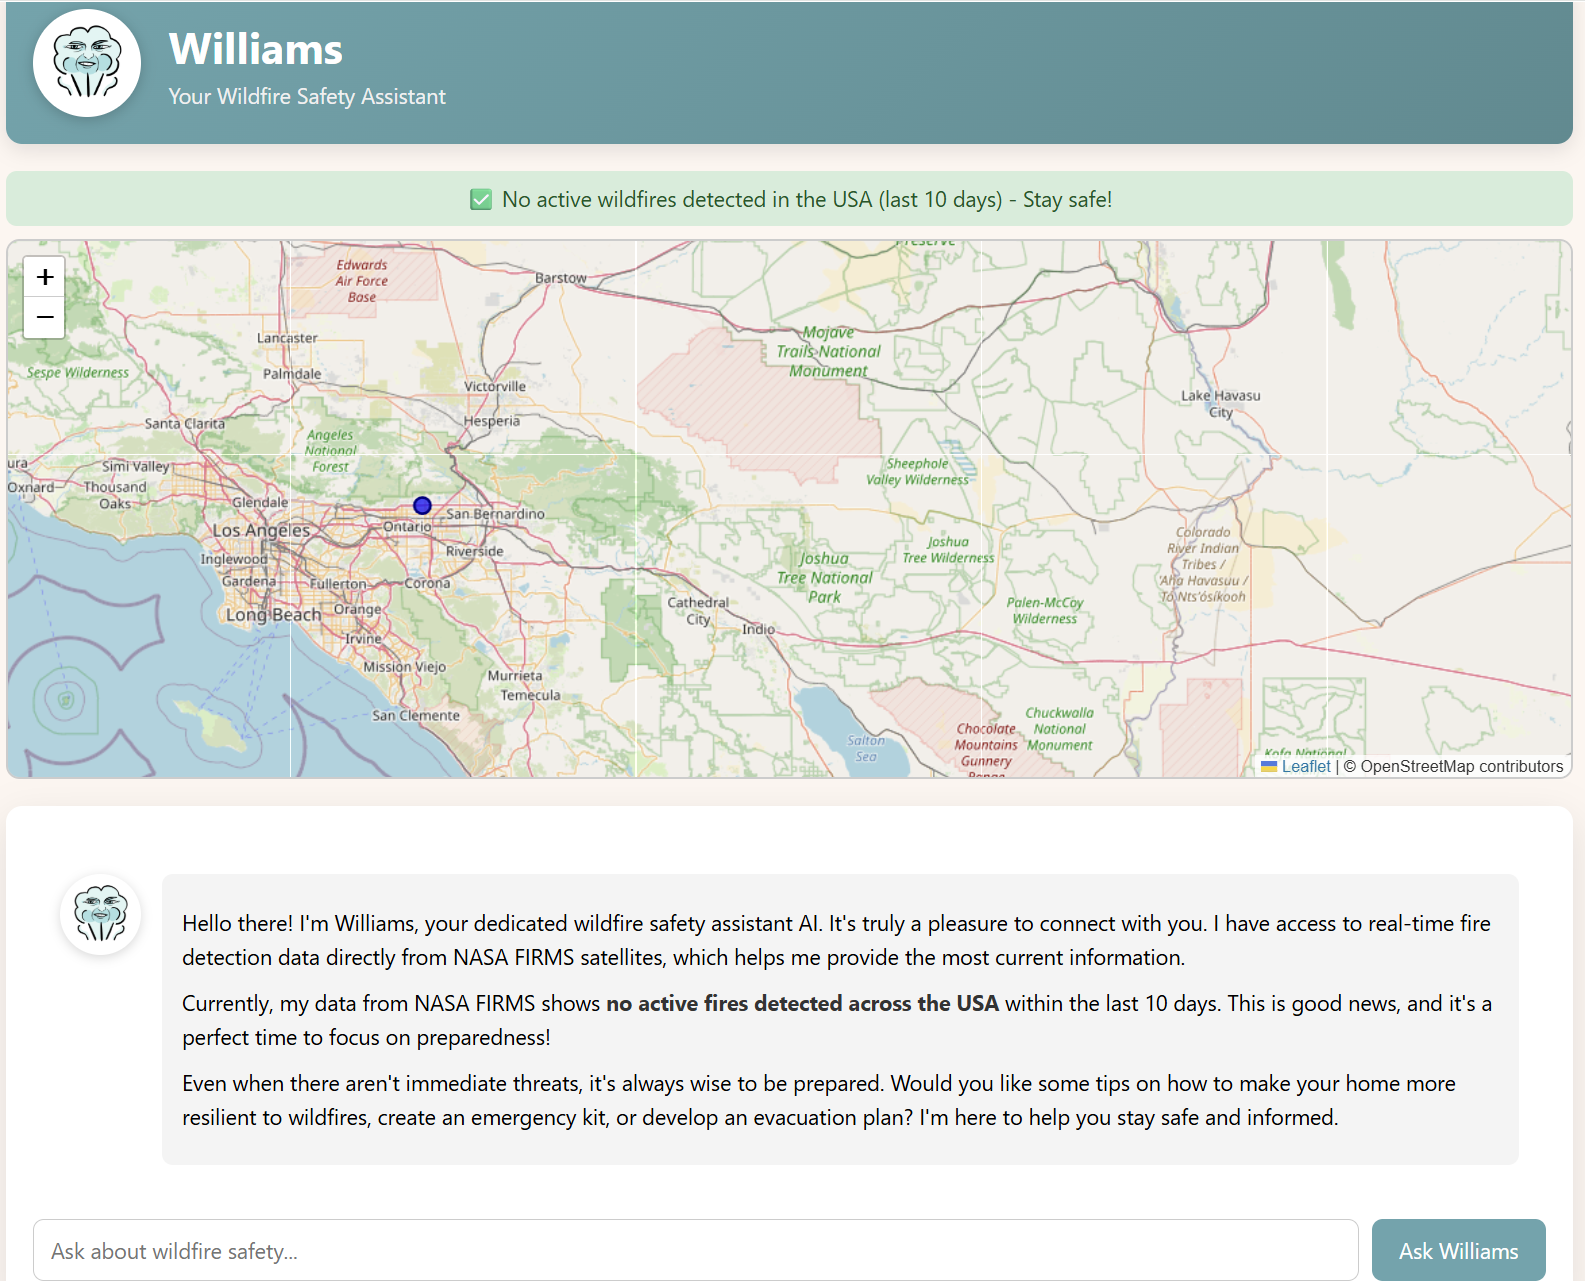
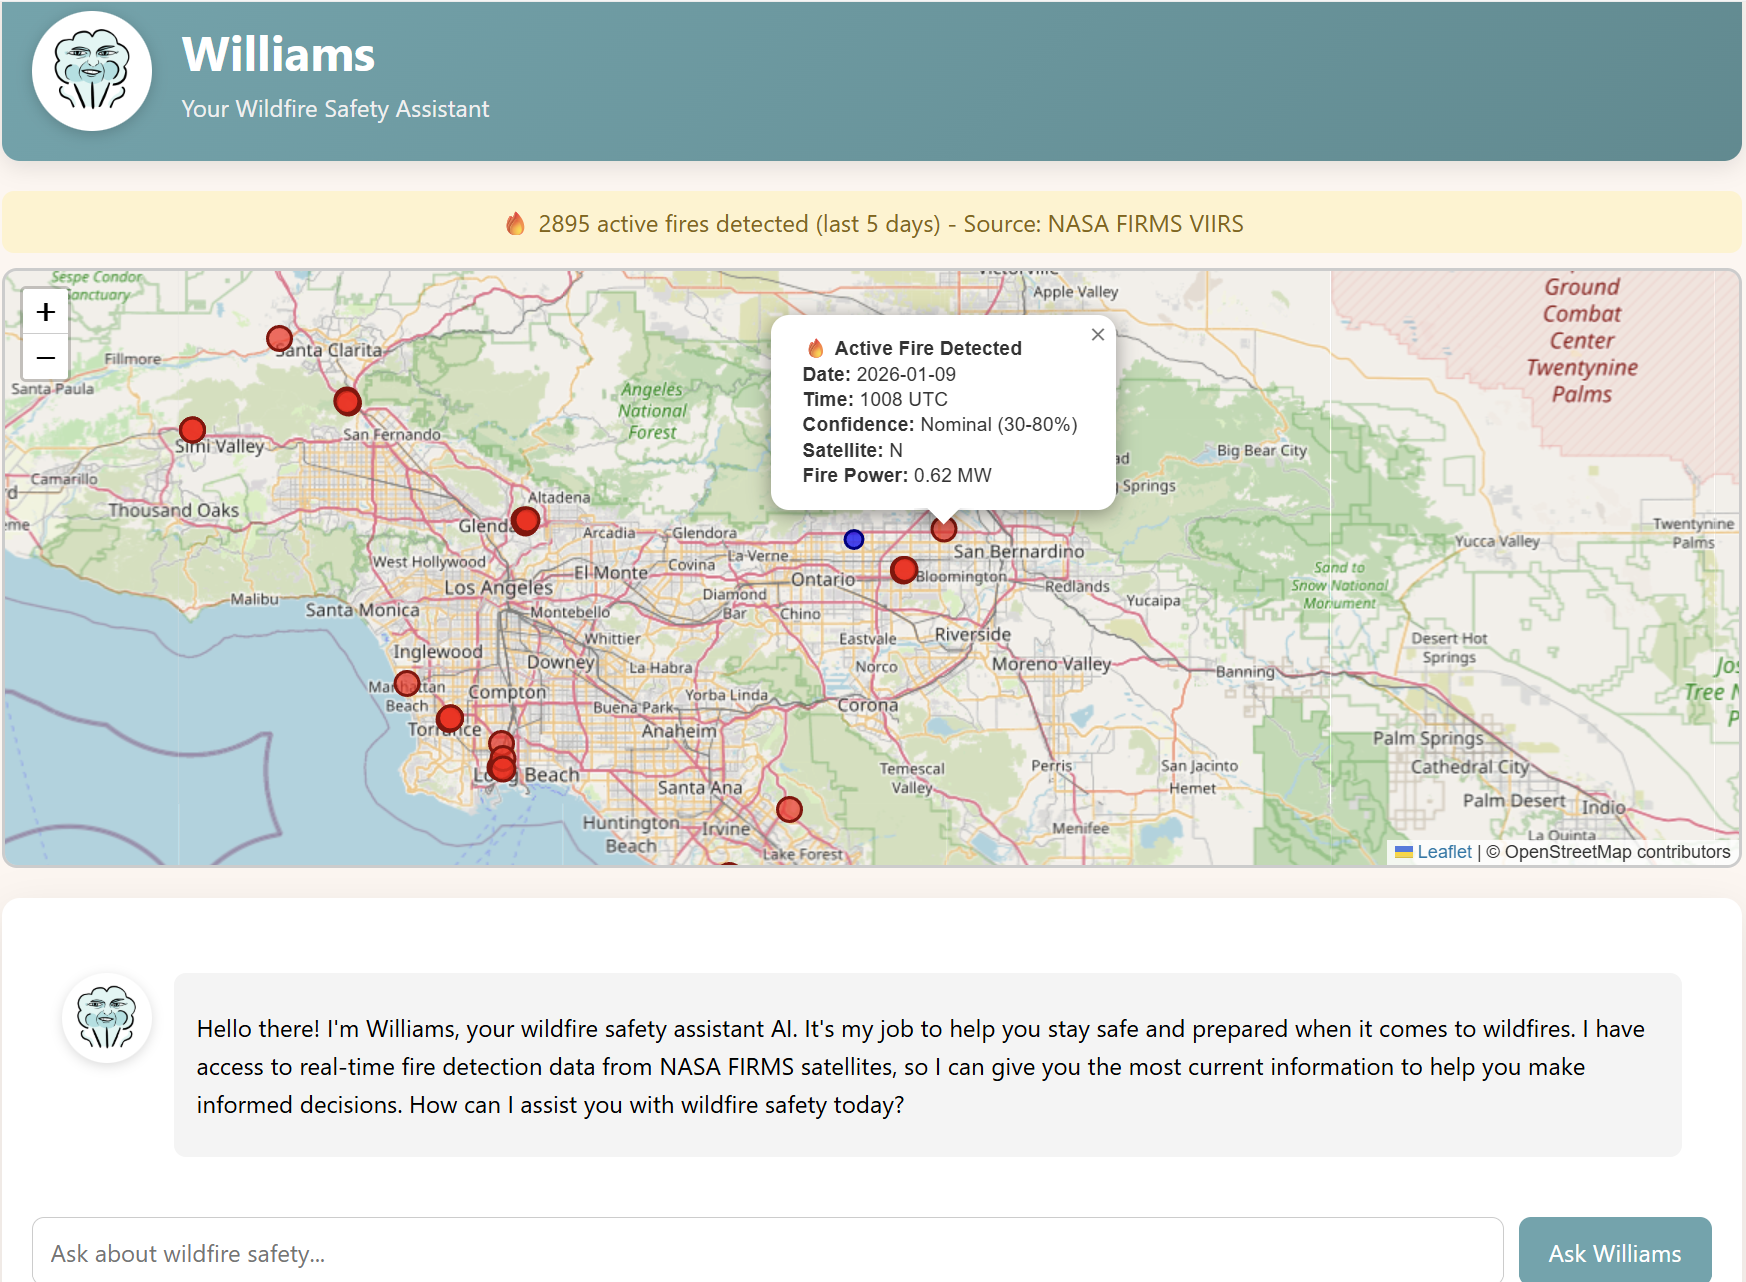
Update williams picture and QR code generator link

diff --git a/src/components/Technical.tsx b/src/components/Technical.tsx
@@ -62,7 +62,7 @@ export default function Technical() {
       titleKey: 'technical.projects.project5.title',
       descKey: 'technical.projects.project5.desc',
       tags: ['Flask', 'Python', 'Web Development', 'QR Code'],
-      link: 'https://qr-code-generator-cssa.onrender.com/',
+      link: 'https://github.com/Ruiyang1210W/Simple-QR-code-generator',
       color: 'text-yellow-600',
       image: '/projectPictures/QRCodeEventManagementSystem.png'
     },
